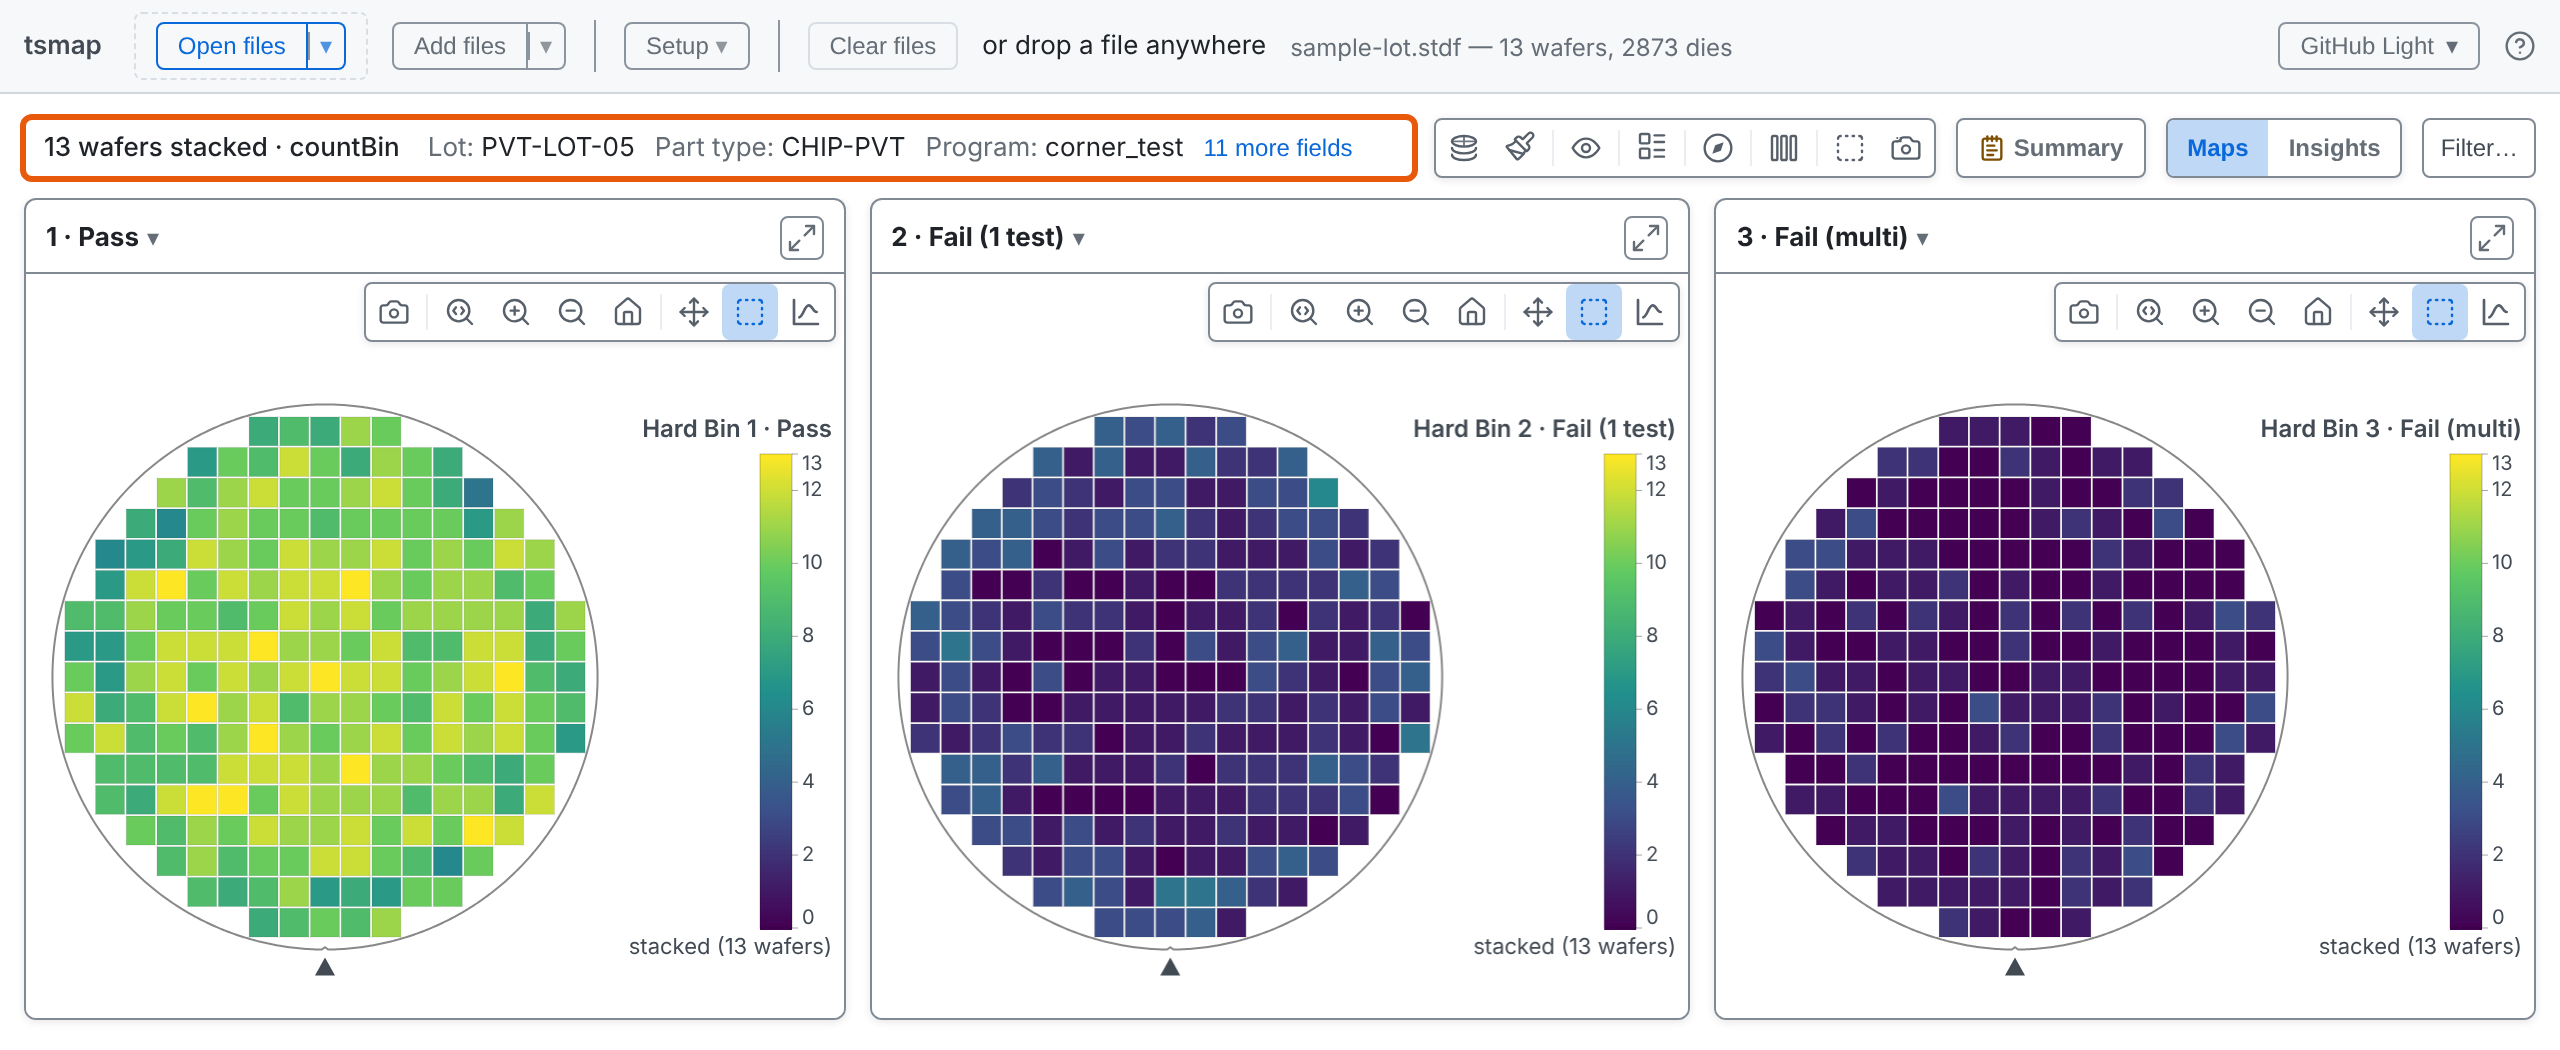
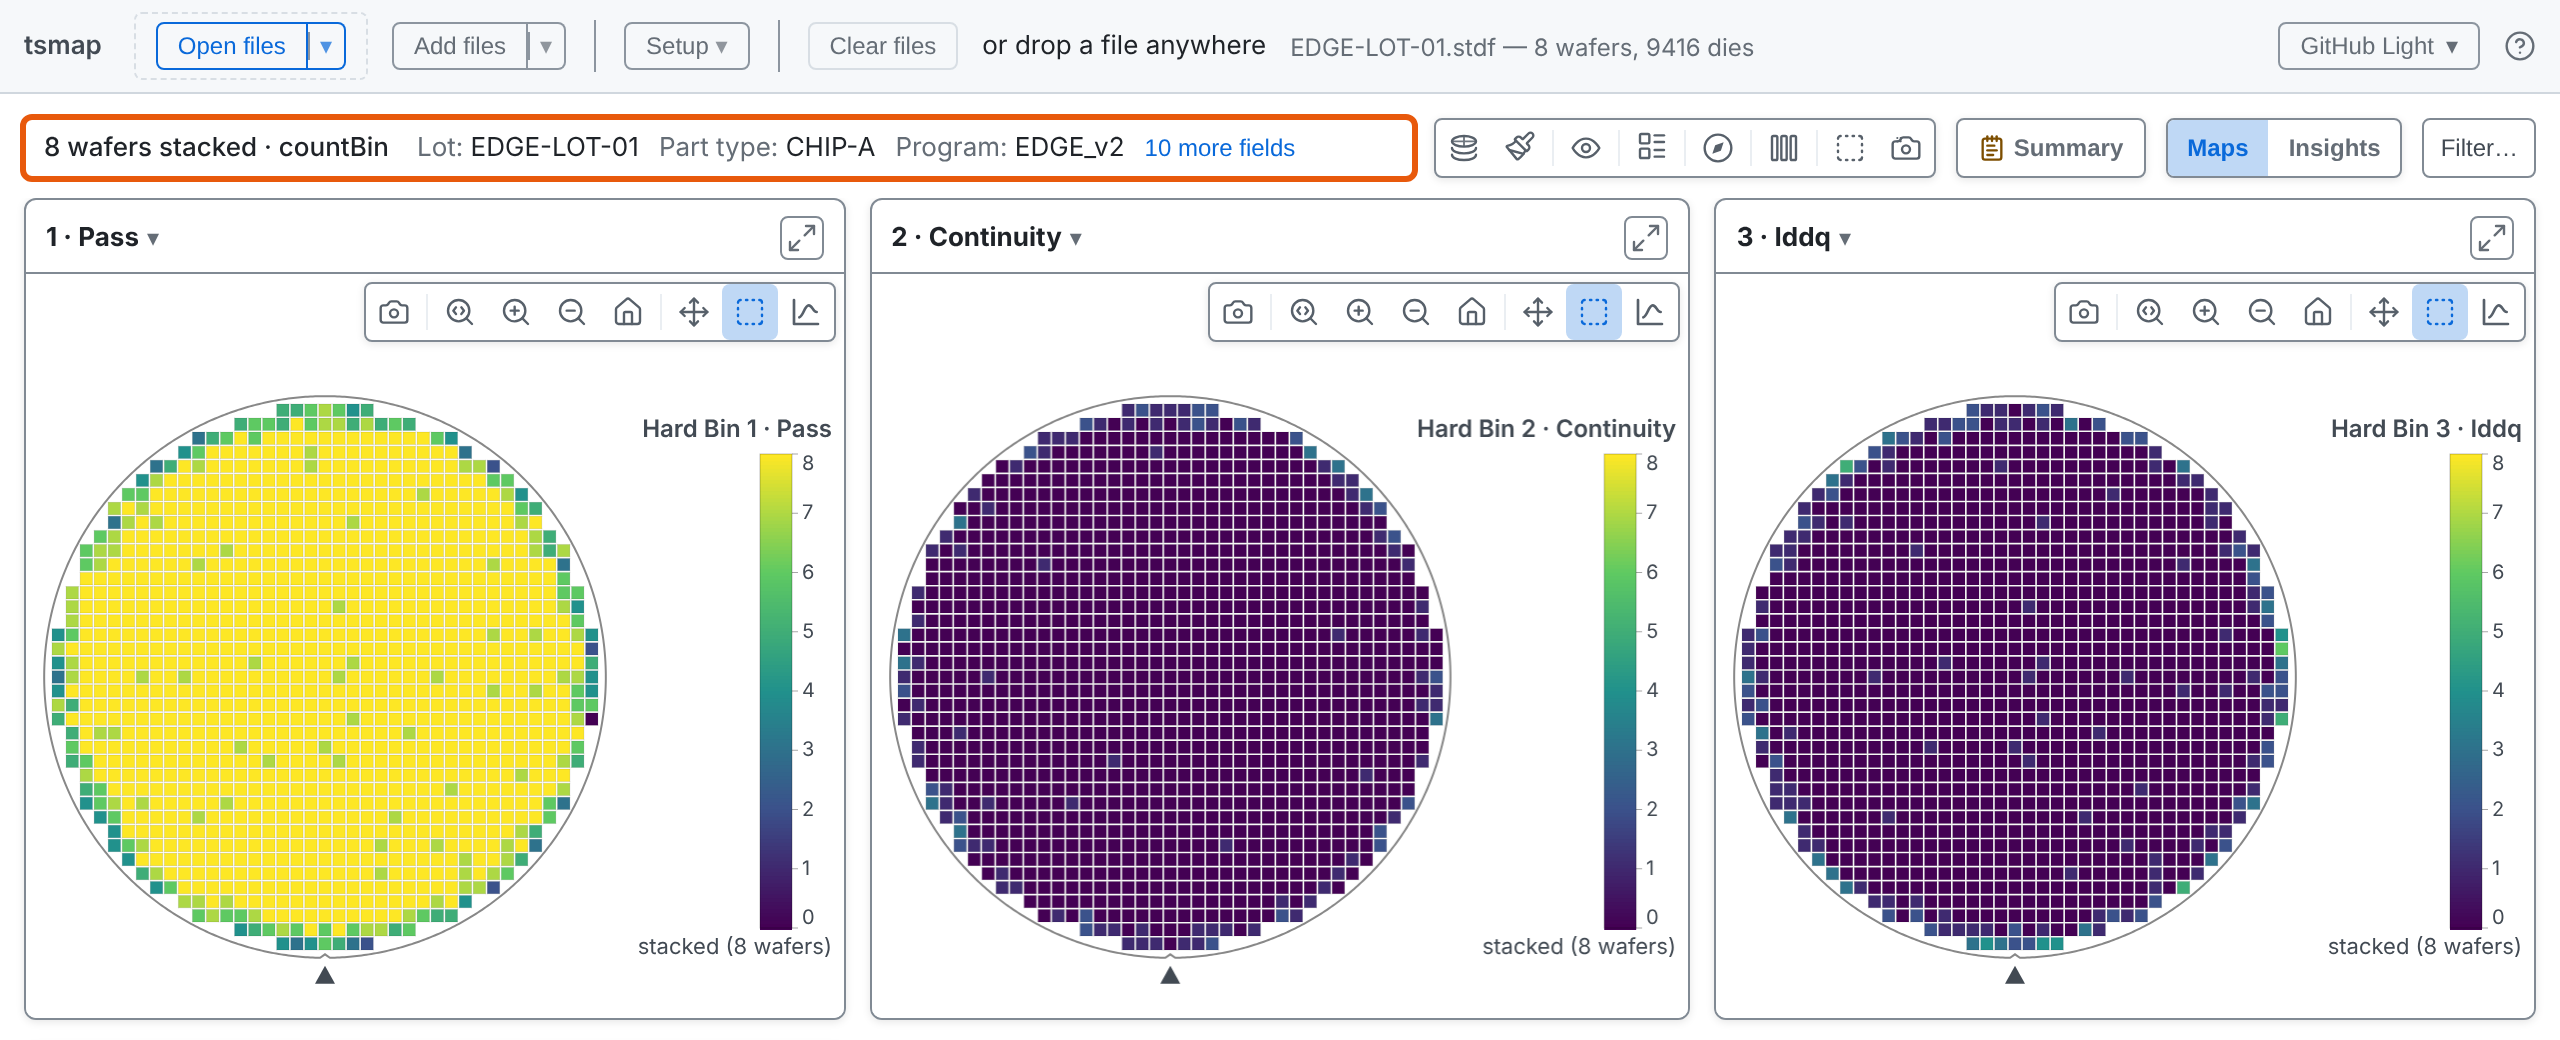
Use EDGE-LOT-01 for the session 04 stacked screenshots
Its edge-ring defect stacks into a clear ring of lower pass counts, which the sample lot's scattered failures did not. The rest of the session stays on the sample lot, where the splits are already assigned.

diff --git a/docs/training/04-the-lot-view.md b/docs/training/04-the-lot-view.md
@@ -34,9 +34,9 @@ tsmap training · a self-paced course
 
 # One card per wafer
 
-A gallery shows each wafer on its own card. The buttons above it act on all the cards at once (session 02).
+A gallery shows each wafer on its own card. This is EDGE-LOT-01, eight wafers with an edge-ring defect. The buttons above act on all the cards at once (session 02).
 
-![The sample lot as a gallery, one card per wafer](images/04/gallery.png)
+![EDGE-LOT-01 as a gallery, one card per wafer](images/04/gallery.png)
 
 ---
 
@@ -53,9 +53,9 @@ Under **Lot aggregation**, three plot modes combine all the wafers into one map 
 
 # Stacked Hard Bins
 
-One card per bin. Each die position is coloured by how many wafers had that bin there: 0 to 13 here. It shows lot-level yield patterns.
+One card per bin. Each die position is coloured by how many wafers had that bin there: 0 to 8 here. Pass is high everywhere except a ring at the edge, where the defect sits.
 
-![Stacked Hard Bins for the sample lot, with the stack header outlined](images/04/stack-hard.png)
+![Stacked Hard Bins for EDGE-LOT-01, with the stack header outlined](images/04/stack-hard.png)
 
 ---
 
@@ -63,13 +63,13 @@ One card per bin. Each die position is coloured by how many wafers had that bin 
 
 The same for soft bins, so lot-level failure modes show as one map per soft bin.
 
-![Stacked Soft Bins for the sample lot](images/04/stack-soft.png)
+![Stacked Soft Bins for EDGE-LOT-01](images/04/stack-soft.png)
 
 ---
 
 # Stacked Test Values
 
-One card per test (six here, the first four shown), with the values combined across the wafers. The header says how many wafers were stacked and how they were combined.
+One card per test (three here), with the values combined across the wafers. The header says how many wafers were stacked and how they were combined.
 
 ![Stacked Test Values: one card per test, with the Σ button outlined](images/04/stack-values.png)
 
@@ -103,7 +103,7 @@ Off by default, so each card selects on its own. Click the button to turn it on.
 
 # One box, every wafer
 
-Drag a box on one wafer and the same die positions are selected on all of them. The badge counts them. Clicking the button clears the selection.
+Back on the sample lot, drag a box on one wafer and the same die positions are selected on all of them. The badge counts them. Clicking the button clears the selection.
 
 ![A box dragged on W01 selects the same dies on every wafer; the badge reads 24](images/04/same-dies-selected.png)
 
